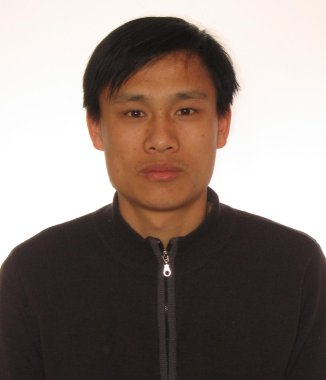
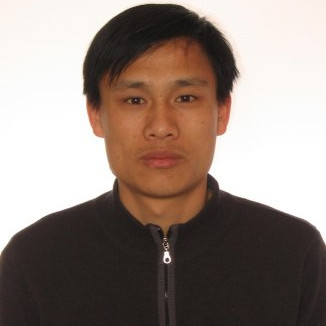
fix peoples image

diff --git a/people.css b/people.css
@@ -49,7 +49,7 @@ body{margin-top:20px;}
 
 .member-profile img {
     width: 100px;
-    height: 100px;
+    /* height: 110px; */
 }
 .rounded-circle {
     border-radius: 50% !important;
